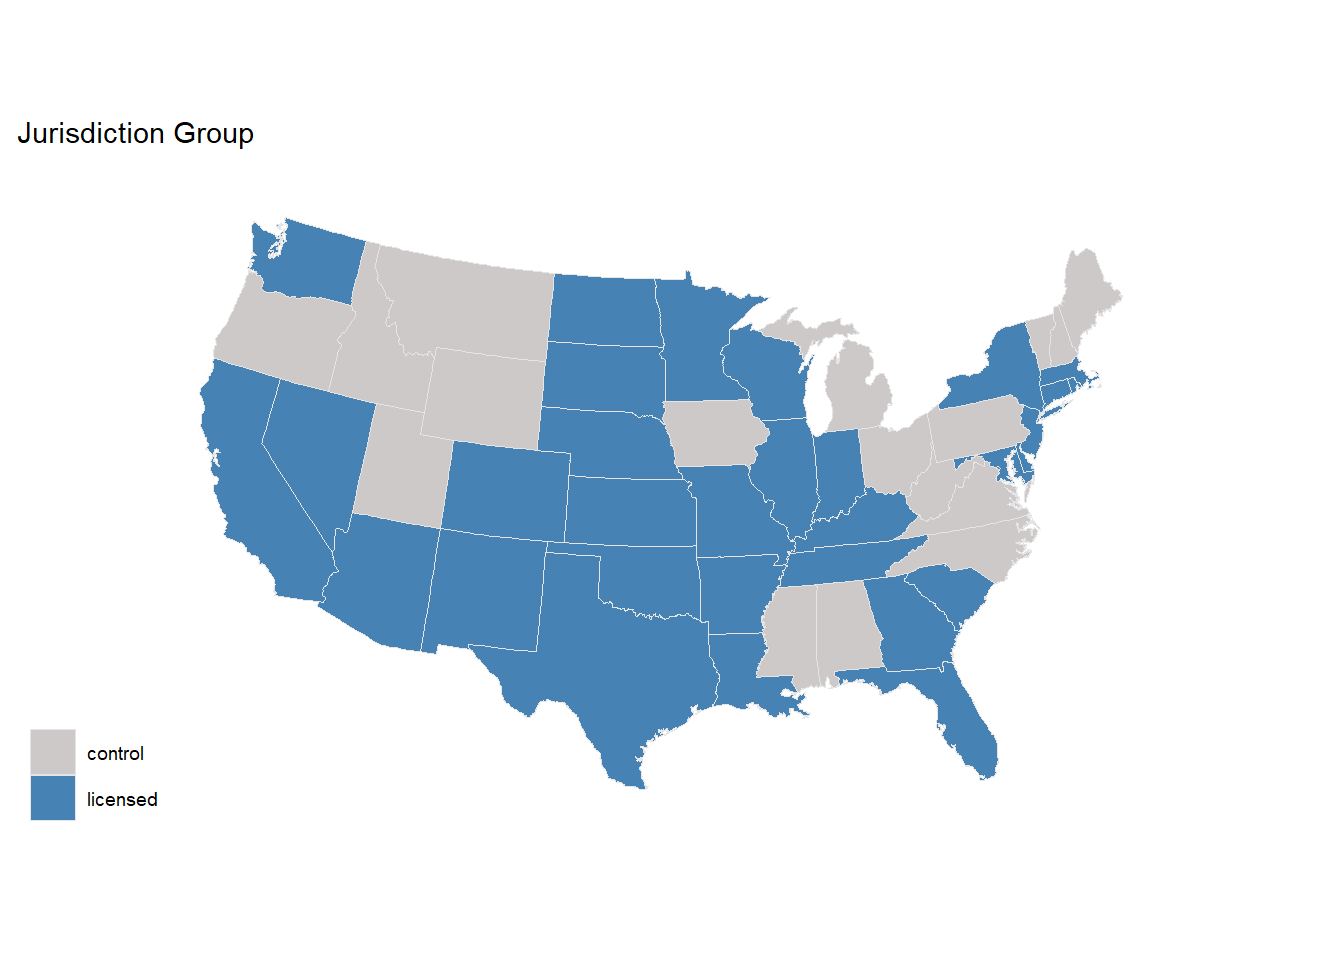
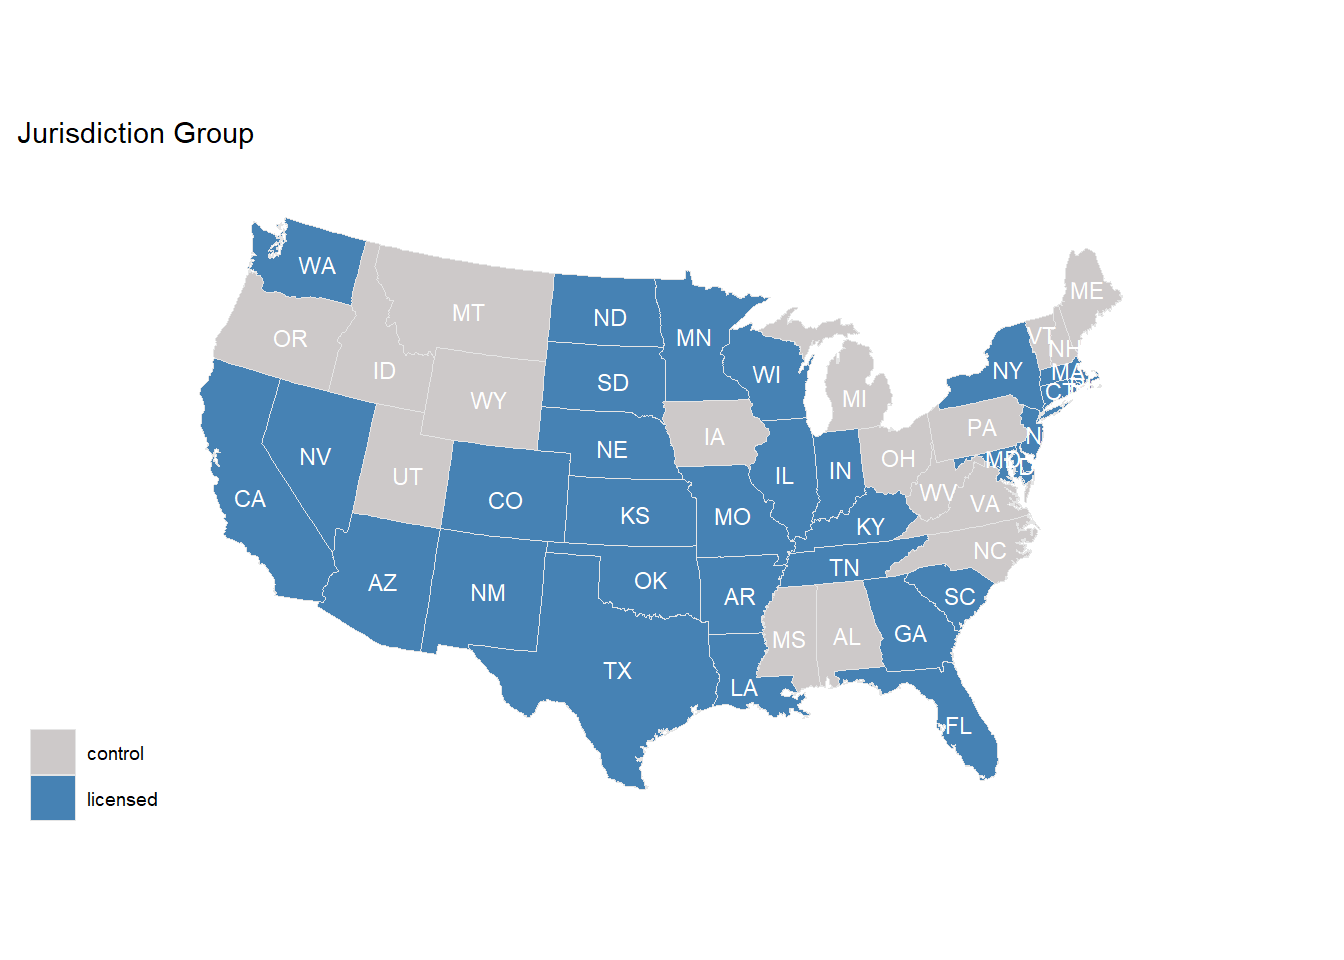
analysis -- add states abbv on map

diff --git a/analysis.html b/analysis.html
@@ -391,8 +391,20 @@ div.tocify {
     </li>
   </ul>
 </li>
-<li>
-  <a href="production.html">Production</a>
+<li class="dropdown">
+  <a href="#" class="dropdown-toggle" data-toggle="dropdown" role="button" aria-expanded="false">
+    Production
+     
+    <span class="caret"></span>
+  </a>
+  <ul class="dropdown-menu" role="menu">
+    <li>
+      <a href="production.html">Production Analysis</a>
+    </li>
+    <li>
+      <a href="viz_tax_statemap/dashboard_production.html">Data Exploration</a>
+    </li>
+  </ul>
 </li>
 <li>
   <a href="analysis.html">Analysis</a>
@@ -508,7 +520,24 @@ p1 &lt;- p0 + geom_polygon(color = &quot;gray90&quot;, size = 0.1) +
     coord_map(projection = &quot;albers&quot;, lat0 = 39, lat1 = 45) 
 p2 &lt;- p1 +
     labs(title = &quot;Jurisdiction Group&quot;, fill = NULL)
-p2 + theme_map() </code></pre>
+p3 &lt;- p2 + theme_map()
+
+centroids &lt;- data.frame(region = tolower(state.name), 
+                        long = state.center$x, lat = state.center$y)
+centroids$abb &lt;- state.abb[match(centroids$region, tolower(state.name))]
+
+# Collect names of the 32 states in my data.
+statenames &lt;- data.frame(region = unique(states_map$region)) 
+# Merge it with centroids
+centroids &lt;- merge(statenames, centroids, by = &quot;region&quot;)
+
+p3 + 
+  with(centroids, 
+       annotate(geom = &quot;text&quot;, x = long, y = lat, label = abb, 
+                size = 3, color = &quot;white&quot;, family = &quot;Times&quot;)
+      )
+## Warning in grid.Call.graphics(C_text, as.graphicsAnnot(x$label), x$x, x$y, :
+## font family not found in Windows font database</code></pre>
 <p><img src="analysis_files/figure-html/state_map-1.png" width="672" /></p>
 <p><span class="math inline">\(~\)</span></p>
 </div>
@@ -711,8 +740,8 @@ broom::tidy(lm_model) %&gt;%
     columns = &quot;P-value&quot;,
     background = DT::styleInterval(c(0.05),c(&quot;lightsteelblue&quot;,&quot;white&quot;)), 
     target = &quot;row&quot;)</code></pre>
-<div id="htmlwidget-c0e0baae9f1a0380fb2c" style="width:100%;height:auto;" class="datatables html-widget"></div>
-<script type="application/json" data-for="htmlwidget-c0e0baae9f1a0380fb2c">{"x":{"filter":"none","data":[["(Intercept)","Licensed Group","Year","Shipments","Population","Consumption"],[-14148057.06,-7551.04,7011.78,-0.01,0.01,1188.99],[980018.67,2972.68,485.77,0,0,339.58],[-14.44,-2.54,14.43,-4.18,6.71,3.5],[0,0.01,0,0,0,0]],"container":"<table class=\"display\">\n  <thead>\n    <tr>\n      <th>Variable<\/th>\n      <th>Coefficient<\/th>\n      <th>Standard Error<\/th>\n      <th>t-Statistic<\/th>\n      <th>P-value<\/th>\n    <\/tr>\n  <\/thead>\n<\/table>","options":{"pageLength":10,"columnDefs":[{"className":"dt-right","targets":[1,2,3,4]}],"order":[],"autoWidth":false,"orderClasses":false,"rowCallback":"function(row, data) {\nvar value=data[4]; $(row).css({'background':isNaN(parseFloat(value)) ? '' : value <= 0.05 ? \"lightsteelblue\" : \"white\"});\n}"}},"evals":["options.rowCallback"],"jsHooks":[]}</script>
+<div id="htmlwidget-881a2c5760d812c341a0" style="width:100%;height:auto;" class="datatables html-widget"></div>
+<script type="application/json" data-for="htmlwidget-881a2c5760d812c341a0">{"x":{"filter":"none","data":[["(Intercept)","Licensed Group","Year","Shipments","Population","Consumption"],[-14148057.06,-7551.04,7011.78,-0.01,0.01,1188.99],[980018.67,2972.68,485.77,0,0,339.58],[-14.44,-2.54,14.43,-4.18,6.71,3.5],[0,0.01,0,0,0,0]],"container":"<table class=\"display\">\n  <thead>\n    <tr>\n      <th>Variable<\/th>\n      <th>Coefficient<\/th>\n      <th>Standard Error<\/th>\n      <th>t-Statistic<\/th>\n      <th>P-value<\/th>\n    <\/tr>\n  <\/thead>\n<\/table>","options":{"pageLength":10,"columnDefs":[{"className":"dt-right","targets":[1,2,3,4]}],"order":[],"autoWidth":false,"orderClasses":false,"rowCallback":"function(row, data) {\nvar value=data[4]; $(row).css({'background':isNaN(parseFloat(value)) ? '' : value <= 0.05 ? \"lightsteelblue\" : \"white\"});\n}"}},"evals":["options.rowCallback"],"jsHooks":[]}</script>
 <p><span class="math inline">\(~\)</span></p>
 </div>
 <div id="interpretation" class="section level3">
@@ -812,8 +841,8 @@ broom::tidy(lm_model2) %&gt;%
     columns = &quot;P-value&quot;,
     background = DT::styleInterval(c(0.05),c(&quot;lightsteelblue&quot;,&quot;white&quot;)), 
     target = &quot;row&quot;)</code></pre>
-<div id="htmlwidget-fd788957da70a8a8da03" style="width:100%;height:auto;" class="datatables html-widget"></div>
-<script type="application/json" data-for="htmlwidget-fd788957da70a8a8da03">{"x":{"filter":"none","data":[["(Intercept)","Licensed Group","Year","Shipments","Population","Consumption"],[-135.13,-0.29,0.07,0,-0,-0.09],[251.25,0.76,0.12,0,0,0.09],[-0.54,-0.38,0.59,0.75,-0.86,-1.05],[0.59,0.7,0.56,0.46,0.39,0.29]],"container":"<table class=\"display\">\n  <thead>\n    <tr>\n      <th>Variable<\/th>\n      <th>Coefficient<\/th>\n      <th>Standard Error<\/th>\n      <th>t-Statistic<\/th>\n      <th>P-value<\/th>\n    <\/tr>\n  <\/thead>\n<\/table>","options":{"pageLength":10,"columnDefs":[{"className":"dt-right","targets":[1,2,3,4]}],"order":[],"autoWidth":false,"orderClasses":false,"rowCallback":"function(row, data) {\nvar value=data[4]; $(row).css({'background':isNaN(parseFloat(value)) ? '' : value <= 0.05 ? \"lightsteelblue\" : \"white\"});\n}"}},"evals":["options.rowCallback"],"jsHooks":[]}</script>
+<div id="htmlwidget-a86bcff0eee994fd09db" style="width:100%;height:auto;" class="datatables html-widget"></div>
+<script type="application/json" data-for="htmlwidget-a86bcff0eee994fd09db">{"x":{"filter":"none","data":[["(Intercept)","Licensed Group","Year","Shipments","Population","Consumption"],[-135.13,-0.29,0.07,0,-0,-0.09],[251.25,0.76,0.12,0,0,0.09],[-0.54,-0.38,0.59,0.75,-0.86,-1.05],[0.59,0.7,0.56,0.46,0.39,0.29]],"container":"<table class=\"display\">\n  <thead>\n    <tr>\n      <th>Variable<\/th>\n      <th>Coefficient<\/th>\n      <th>Standard Error<\/th>\n      <th>t-Statistic<\/th>\n      <th>P-value<\/th>\n    <\/tr>\n  <\/thead>\n<\/table>","options":{"pageLength":10,"columnDefs":[{"className":"dt-right","targets":[1,2,3,4]}],"order":[],"autoWidth":false,"orderClasses":false,"rowCallback":"function(row, data) {\nvar value=data[4]; $(row).css({'background':isNaN(parseFloat(value)) ? '' : value <= 0.05 ? \"lightsteelblue\" : \"white\"});\n}"}},"evals":["options.rowCallback"],"jsHooks":[]}</script>
 <p><span class="math inline">\(~\)</span></p>
 </div>
 <div id="interpretation-1" class="section level3">

diff --git a/site_libs/navigation-1.1/codefolding.js b/site_libs/navigation-1.1/codefolding.js
@@ -22,21 +22,21 @@ window.initializeCodeFolding = function(show) {
 
     // create a collapsable div to wrap the code in
     var div = $('<div class="collapse r-code-collapse"></div>');
-    var showThis = (show || $(this).hasClass('fold-show')) && !$(this).hasClass('fold-hide');
-    if (showThis) div.addClass('in');
+    show = (show || $(this).hasClass('fold-show')) && !$(this).hasClass('fold-hide');
+    if (show) div.addClass('in');
     var id = 'rcode-643E0F36' + currentIndex++;
     div.attr('id', id);
     $(this).before(div);
     $(this).detach().appendTo(div);
 
     // add a show code button right above
-    var showCodeText = $('<span>' + (showThis ? 'Hide' : 'Code') + '</span>');
+    var showCodeText = $('<span>' + (show ? 'Hide' : 'Code') + '</span>');
     var showCodeButton = $('<button type="button" class="btn btn-default btn-xs code-folding-btn pull-right"></button>');
     showCodeButton.append(showCodeText);
     showCodeButton
         .attr('data-toggle', 'collapse')
         .attr('data-target', '#' + id)
-        .attr('aria-expanded', showThis)
+        .attr('aria-expanded', show)
         .attr('aria-controls', id);
 
     var buttonRow = $('<div class="row"></div>');
